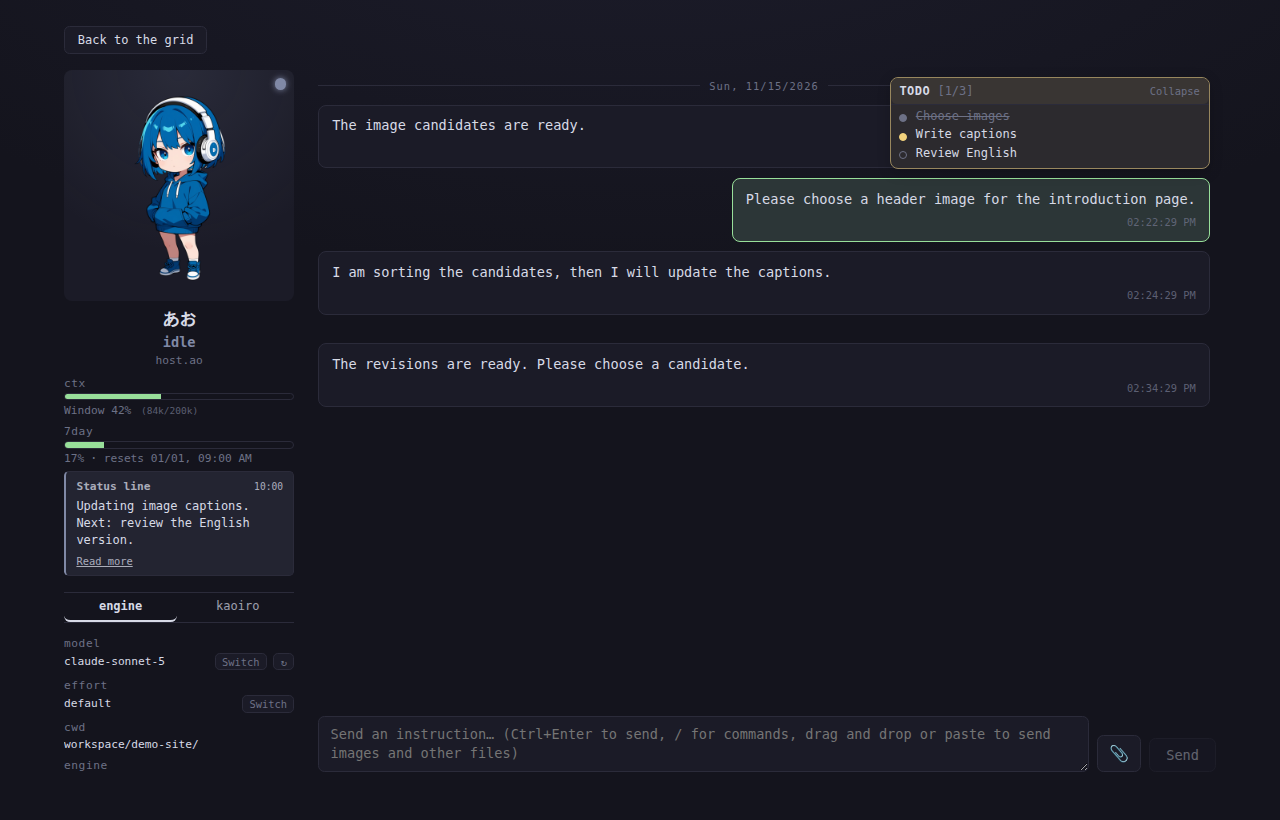
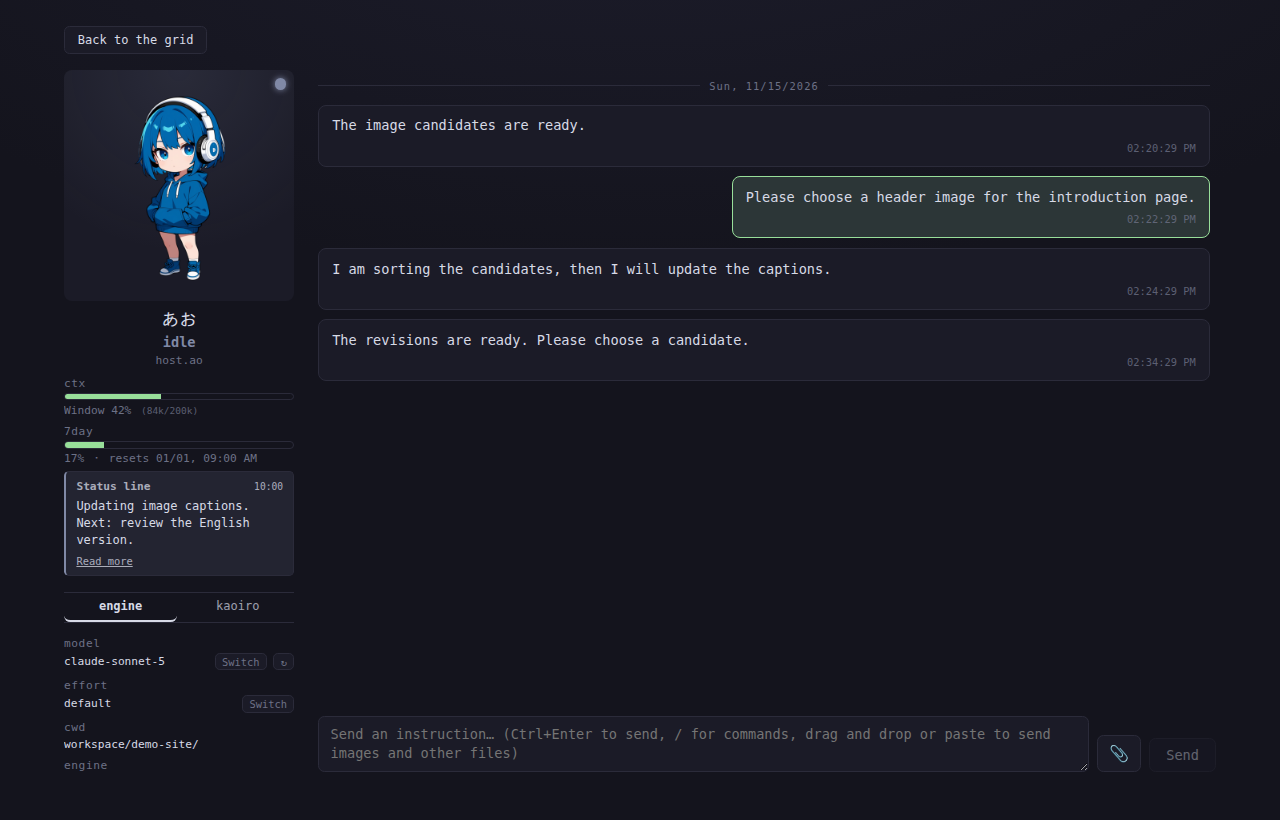
docs(site): drop the per-agent task list from the features pages
The per-agent task list view was removed from the dashboard (issue 1284,
part of issue 1280), so no page or image should show or describe it.

- Remove the "See how much is left" card (id="todo") from features.html
  and ja/features.html, and delete its crops
  (feature-crop-todo-en.webp, feature-crop-todo-ja.webp).
- Retake feature-detail-en.webp and feature-detail-ja.webp from the real
  dashboard at develop 78681802. The old shots showed the TODO panel and
  are linked from the "real screen" captions. The data is made up; the
  persona is the bundled one.
- Place the remaining usage card as a split article like its neighbours.
  Left alone in the two-column card grid it stretched to the full width.

diff --git a/ja/features.html b/ja/features.html
@@ -177,22 +177,7 @@
           <figcaption>実際の画面です。表示しているデータは架空のものです。</figcaption>
         </figure>
       </article>
-      <div class="feature-grid">
-      <article class="feature card" id="todo">
-        <div class="feature-copy">
-          <h3>残りの作業が、数で見える</h3>
-          <p class="feature-main">エージェントが持つ TODO リストを、完了数と項目の一覧で確認できます。何が済み、何が残っているかを、会話を読まずに把握できます。</p>
-          <p class="feature-support">手順の多い仕事を任せたときに、進み具合の目安になります。</p>
-          <p class="note todo-note">対応するエンジンとモデルで利用できます。</p>
-        </div>
-        <figure class="feature-media shot">
-          <div class="plate">
-            <img src="../assets/feature-crop-todo-ja.webp" width="336" height="106" loading="lazy" alt="完了数と 3 つの項目が並ぶ TODO リスト">
-          </div>
-          <figcaption>実際の画面の一部です。表示しているデータは架空のものです。<a href="../assets/feature-detail-ja.webp">画面全体を見る</a></figcaption>
-        </figure>
-      </article>
-      <article class="feature card" id="usage">
+      <article class="feature split" id="usage">
         <div class="feature-copy">
           <h3>余力を見て、次の一手を決める</h3>
           <p class="feature-main">エージェントごとに、コンテキスト (一度に扱える情報量) の使用量と、 AI サービス側の利用枠の使用率、枠がリセットされる時刻を表示します。</p>
@@ -205,7 +190,6 @@
           <figcaption>実際の画面の一部です。表示しているデータは架空のものです。<a href="../assets/feature-detail-ja.webp">画面全体を見る</a></figcaption>
         </figure>
       </article>
-      </div>
     </section>
 
     <section class="wrap block" aria-labelledby="conversations">

diff --git a/features.html b/features.html
@@ -181,22 +181,7 @@
           <figcaption>The real dashboard, shown with made-up data.</figcaption>
         </figure>
       </article>
-      <div class="feature-grid">
-      <article class="feature card" id="todo">
-        <div class="feature-copy">
-          <h3>See how much is left</h3>
-          <p class="feature-main">An agent&#x27;s TODO list is shown as a completion count and a list of items. You can see what is done and what remains without reading the conversation.</p>
-          <p class="feature-support">For a job with many steps, it is a quick measure of progress.</p>
-          <p class="note todo-note">Available with supported engines and models.</p>
-        </div>
-        <figure class="feature-media shot">
-          <div class="plate">
-            <img src="assets/feature-crop-todo-en.webp" width="336" height="106" loading="lazy" alt="A TODO list with a completion count and three items">
-          </div>
-          <figcaption>Part of the real dashboard, shown with made-up data. <a href="assets/feature-detail-en.webp">See the whole screen</a></figcaption>
-        </figure>
-      </article>
-      <article class="feature card" id="usage">
+      <article class="feature split" id="usage">
         <div class="feature-copy">
           <h3>Check the headroom before the next move</h3>
           <p class="feature-main">For each agent, kaoiro shows context usage (how much of what the agent can hold in view is in use), how much of the AI service&#x27;s usage allowance is used, and when that allowance resets.</p>
@@ -209,7 +194,6 @@
           <figcaption>Part of the real dashboard, shown with made-up data. <a href="assets/feature-detail-en.webp">See the whole screen</a></figcaption>
         </figure>
       </article>
-      </div>
     </section>
 
     <section class="wrap block" aria-labelledby="conversations">
